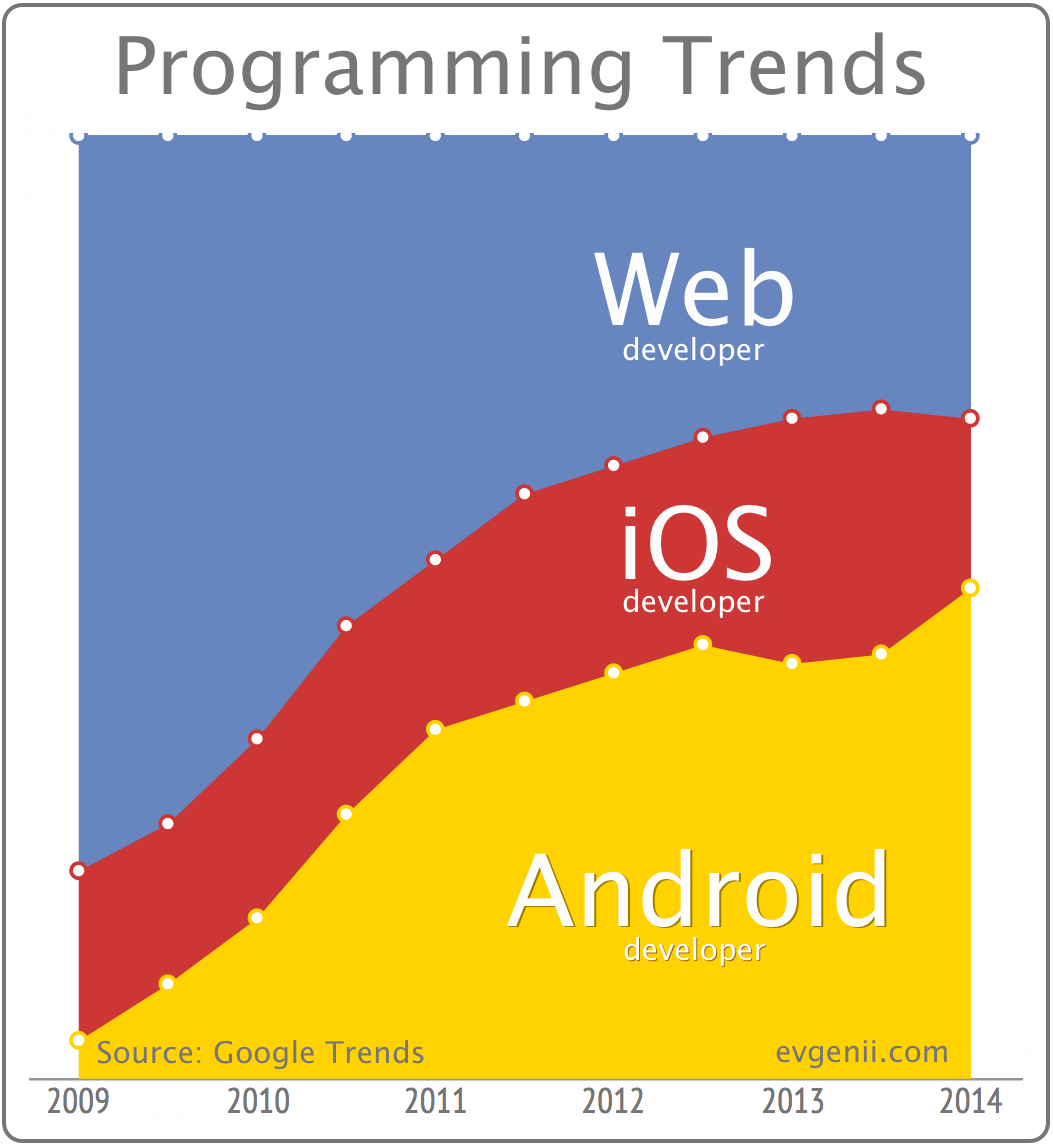
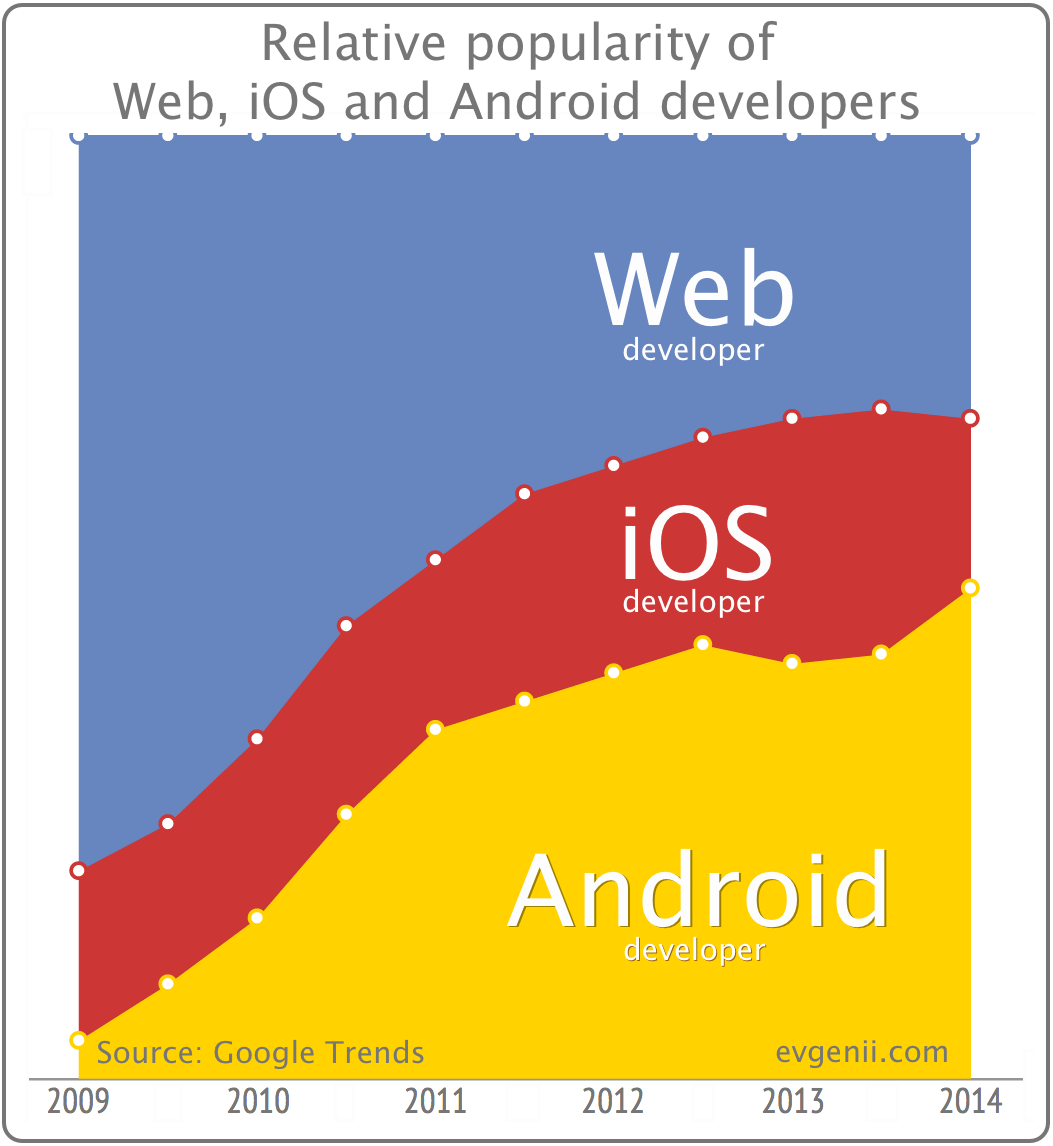
Change image

Changed region(s): [[0.0912, 0.0, 0.8813, 0.1222]]

diff --git a/app/blog/_posts/2014-04-27-programming-trends-web-ios-android-developers.md b/app/blog/_posts/2014-04-27-programming-trends-web-ios-android-developers.md
@@ -9,7 +9,7 @@ meta_description: "Inforgraphic shows relative popularity of Web, iOS and Androi
 
 ## Description
 
-This infographic shows relative popularity of 'Web developer', 'iOS Developer' and 'Android Developer' keywords. Google Trends was used to get the data which was filtered by 'Programming' category. Time period: from 2009 till May 2014.
+This infographic shows relative popularity of 'Web developer', 'iOS developer' and 'Android developer' keywords. Google Trends was used to get the data which was filtered by 'Programming' category. Time period: from 2009 till May 2014.
 
 The term 'iOS' was introduced by Apple in June 2010 which replaced 'iPhone OS'. I used 'iPhone developer' for years 2009 and 2010 instead of 'iOS developer'.
 
